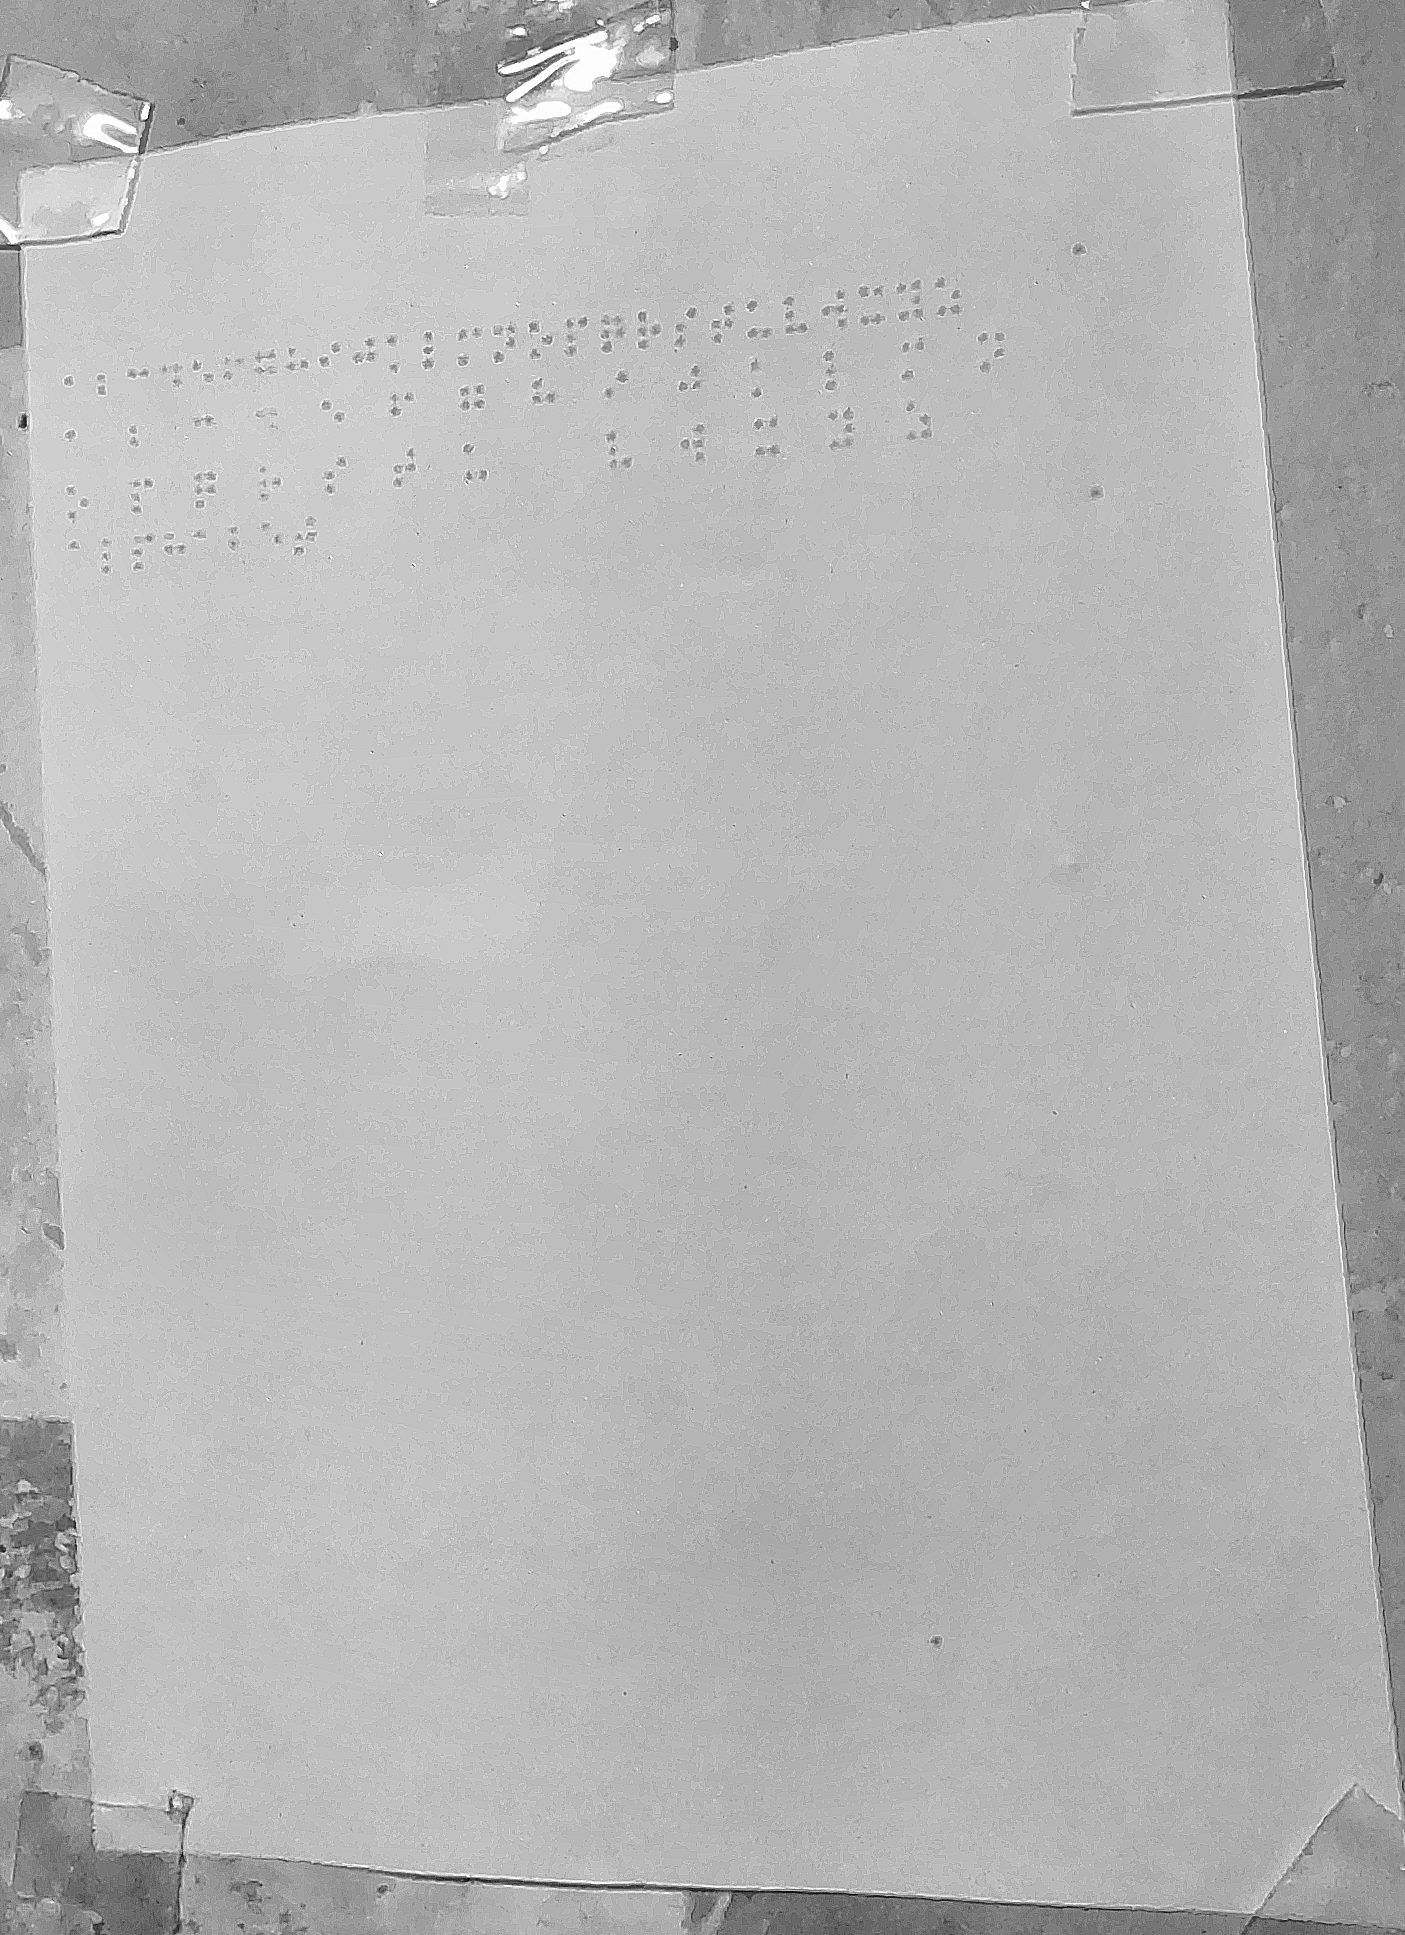
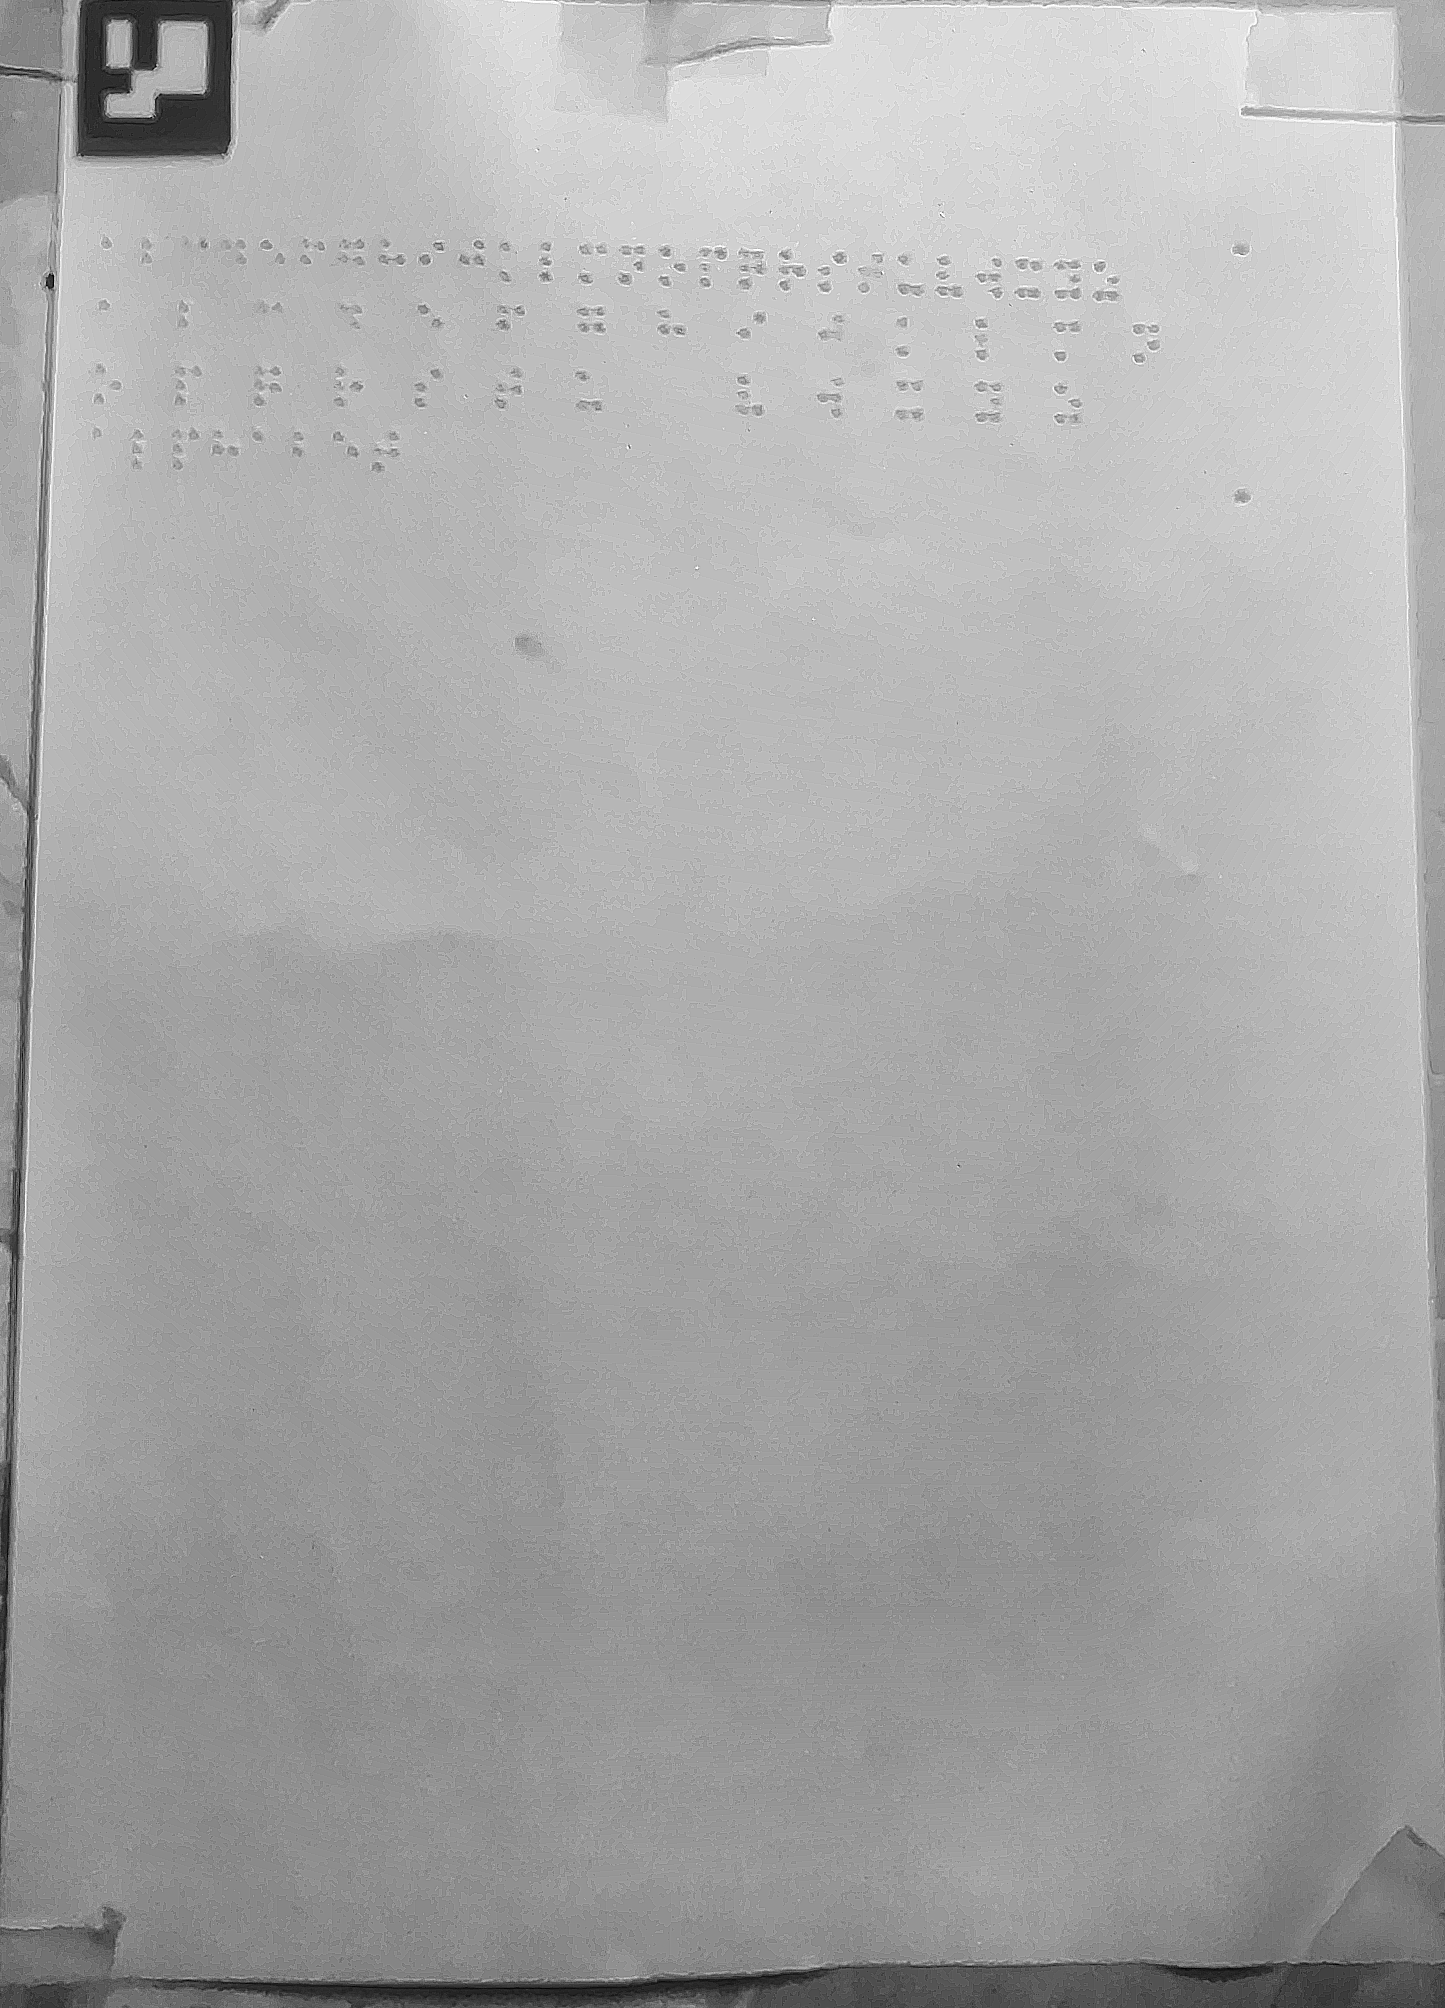
v3 progress 10

diff --git a/hal/hal_camera.py b/hal/hal_camera.py
@@ -32,13 +32,17 @@ class CameraHAL:
         self.preview_config = None
         self.capture_config = None
 
+        # Focus region tracking
+        self.focus_region = None  # Will store (x, y, width, height) normalized coordinates
+
         # Event subscriptions
         self.bus.subscribe("camera_switch_res", self.on_switch_resolution)
         self.bus.subscribe("camera_capture", self.on_capture)
         self.bus.subscribe("camera_toggle_undistort", self.toggle_undistort)
+        self.bus.subscribe("camera_set_focus_region", self.set_focus_region)
 
         self._init_camera()
-
+    
     # -----------------------------
     def _init_camera(self):
         """Initialize PiCamera2 with preview and capture configurations."""
@@ -50,12 +54,30 @@ class CameraHAL:
         )
         self.pi_cam.configure(self.preview_config)
         self.pi_cam.start()
+        
+        # Set initial focus mode to auto
+        try:
+            self.pi_cam.set_controls({"AfMode": controls.AfModeEnum.Auto})
+            print("[CameraHAL] ✅ Started preview with auto-focus")
+        except Exception as e:
+            print(f"[CameraHAL] ⚠ Could not set auto-focus: {e}")
+        
         print(f"[CameraHAL] ✅ Started preview at {self.low_res}")
 
     # -----------------------------
+    @staticmethod
     def scale_calibration(camera_matrix, dist_coeffs, orig_res, new_res):
         """
         Scale the camera matrix to match a new resolution.
+        
+        Args:
+            camera_matrix: Original camera matrix
+            dist_coeffs: Original distortion coefficients
+            orig_res: Original resolution (width, height)
+            new_res: New resolution (width, height)
+            
+        Returns:
+            tuple: (scaled_camera_matrix, dist_coeffs)
         """
         scale_x = new_res[0] / orig_res[0]
         scale_y = new_res[1] / orig_res[1]
@@ -67,7 +89,94 @@ class CameraHAL:
         new_camera_matrix[1, 2] *= scale_y  # cy
 
         return new_camera_matrix, dist_coeffs
-   # -----------------------------
+
+    # -----------------------------
+    def set_focus_region(self, data):
+        """
+        Set camera to focus on a specific region (paper borders).
+        
+        Args:
+            data: Dictionary containing 'paper_borders' as [x1, y1, x2, y2] 
+                  in normalized coordinates (0-1) relative to frame size
+        """
+        try:
+            paper_borders = data.get("paper_borders")
+            if not paper_borders or len(paper_borders) != 4:
+                print("[CameraHAL] ⚠ Invalid paper borders format. Expected [x1, y1, x2, y2]")
+                return
+            
+            x1, y1, x2, y2 = paper_borders
+            
+            # Validate normalized coordinates
+            if not all(0 <= coord <= 1 for coord in [x1, y1, x2, y2]):
+                print("[CameraHAL] ⚠ Paper borders must be in normalized coordinates (0-1)")
+                return
+            
+            # Calculate center and size of the region
+            center_x = (x1 + x2) / 2
+            center_y = (y1 + y2) / 2
+            width = x2 - x1
+            height = y2 - y1
+            
+            # Store focus region for visualization
+            self.focus_region = (x1, y1, width, height)
+            
+            # Convert to pixel coordinates for the current resolution
+            current_width, current_height = self.resolution
+            pixel_center_x = int(center_x * current_width)
+            pixel_center_y = int(center_y * current_height)
+            pixel_width = int(width * current_width)
+            pixel_height = int(height * current_height)
+            
+            print(f"[CameraHAL] 🔍 Setting focus region: center=({center_x:.2f}, {center_y:.2f}), size=({width:.2f}, {height:.2f})")
+            print(f"[CameraHAL] 📏 Pixel coordinates: center=({pixel_center_x}, {pixel_center_y}), size=({pixel_width}, {pixel_height})")
+            
+            # Set focus region using libcamera controls
+            try:
+                # Normalized coordinates for libcamera (0.0-1.0)
+                roi_x = center_x - width/2
+                roi_y = center_y - height/2
+                roi_width = width
+                roi_height = height
+                
+                # Ensure ROI stays within bounds
+                roi_x = max(0.0, min(roi_x, 1.0))
+                roi_y = max(0.0, min(roi_y, 1.0))
+                roi_width = max(0.1, min(roi_width, 1.0 - roi_x))
+                roi_height = max(0.1, min(roi_height, 1.0 - roi_y))
+                
+                controls_dict = {
+                    "AfMode": controls.AfModeEnum.Auto,
+                    "AfMetering": controls.AfMeteringEnum.Windows,
+                    "AfWindows": [(roi_x, roi_y, roi_width, roi_height)]
+                }
+                
+                self.pi_cam.set_controls(controls_dict)
+                print(f"[CameraHAL] ✅ Focus region set: ROI=({roi_x:.2f}, {roi_y:.2f}, {roi_width:.2f}, {roi_height:.2f})")
+                
+            except Exception as e:
+                print(f"[CameraHAL] ⚠ Could not set focus region via controls: {e}")
+                # Fallback: try simple center focus
+                try:
+                    self.pi_cam.set_controls({"AfMode": controls.AfModeEnum.Auto})
+                    print("[CameraHAL] 🔄 Fallback to auto-focus mode")
+                except Exception as fallback_error:
+                    print(f"[CameraHAL] ❌ Fallback auto-focus also failed: {fallback_error}")
+                    
+        except Exception as e:
+            print(f"[CameraHAL] ❌ Error setting focus region: {e}")
+
+    # -----------------------------
+    def reset_focus(self):
+        """Reset focus to the entire frame (auto-focus)."""
+        try:
+            self.pi_cam.set_controls({"AfMode": controls.AfModeEnum.Auto})
+            self.focus_region = None
+            print("[CameraHAL] 🔄 Focus reset to auto (full frame)")
+        except Exception as e:
+            print(f"[CameraHAL] ⚠ Could not reset focus: {e}")
+
+    # -----------------------------
     def get_frame(self):
         """Capture frame from PiCamera2."""
         try:
@@ -79,40 +188,24 @@ class CameraHAL:
 
     # -----------------------------
     def undistort_frame(self, frame, resolution):
+        """Apply undistortion to frame based on current resolution."""
         if not self.undistort_enabled:
             return frame
 
-        # --- Original calibration resolution ---
-        orig_res = (2304, 1296)
-
-        # --- Helper function for scaling calibration ---
-        def scale_calibration(camera_matrix, dist_coeffs, orig_res, new_res):
-            scale_x = new_res[0] / orig_res[0]
-            scale_y = new_res[1] / orig_res[1]
-
-            new_camera_matrix = camera_matrix.copy()
-            new_camera_matrix[0, 0] *= scale_x  # fx
-            new_camera_matrix[1, 1] *= scale_y  # fy
-            new_camera_matrix[0, 2] *= scale_x  # cx
-            new_camera_matrix[1, 2] *= scale_y  # cy
-
-            return new_camera_matrix, dist_coeffs
-
-        # --- Scale according to active resolution ---
-        if resolution == (4608, 2592):
-            camera_matrix_scaled, dist_coeffs_scaled = scale_calibration(
-                self.camera_matrix, self.dist_coeffs, orig_res, (4608, 2592)
+        # Scale calibration for current resolution
+        if resolution == self.high_res:
+            camera_matrix_scaled, dist_coeffs_scaled = self.scale_calibration(
+                self.camera_matrix, self.dist_coeffs, self.orig_size, self.high_res
             )
-        elif resolution == (1536, 864):
-            camera_matrix_scaled, dist_coeffs_scaled = scale_calibration(
-                self.camera_matrix, self.dist_coeffs, orig_res, (1536, 864)
+        elif resolution == self.low_res:
+            camera_matrix_scaled, dist_coeffs_scaled = self.scale_calibration(
+                self.camera_matrix, self.dist_coeffs, self.orig_size, self.low_res
             )
         else:
             camera_matrix_scaled, dist_coeffs_scaled = self.camera_matrix, self.dist_coeffs
 
-        # --- Apply undistortion ---
+        # Apply undistortion
         frame_undistorted = cv2.undistort(frame, camera_matrix_scaled, dist_coeffs_scaled)
-
         return frame_undistorted
 
     # -----------------------------
@@ -123,6 +216,24 @@ class CameraHAL:
             if frame is None:
                 await asyncio.sleep(0.02)
                 continue
+
+            # Draw focus region on preview if set
+            if self.show_preview and self.focus_region is not None:
+                frame_with_focus = frame.copy()
+                h, w = frame_with_focus.shape[:2]
+                x1, y1, width, height = self.focus_region
+                
+                # Convert normalized to pixel coordinates
+                x1_px = int(x1 * w)
+                y1_px = int(y1 * h)
+                x2_px = int((x1 + width) * w)
+                y2_px = int((y1 + height) * h)
+                
+                # Draw rectangle around focus region
+                cv2.rectangle(frame_with_focus, (x1_px, y1_px), (x2_px, y2_px), (0, 255, 0), 2)
+                cv2.putText(frame_with_focus, "Focus Region", (x1_px, y1_px - 10),
+                           cv2.FONT_HERSHEY_SIMPLEX, 0.6, (0, 255, 0), 2)
+                frame = frame_with_focus
 
             # Publish current frame (async)
             asyncio.create_task(
@@ -157,11 +268,24 @@ class CameraHAL:
                         2,
                         cv2.LINE_AA,
                     )
+                    
+                    # Add focus region info
+                    if self.focus_region is not None:
+                        cv2.putText(
+                            overlay,
+                            "Focus: Paper Region",
+                            (15, 80),
+                            cv2.FONT_HERSHEY_SIMPLEX,
+                            0.7,
+                            (0, 255, 0),
+                            2,
+                            cv2.LINE_AA,
+                        )
+                    
                     preview_resized = cv2.resize(overlay, (640, 360))
                     cv2.imshow("Camera Preview", preview_resized)
                     cv2.waitKey(1)
 
-            time.sleep(0.005)
             await asyncio.sleep(0.01)
 
     # -----------------------------
@@ -186,29 +310,17 @@ class CameraHAL:
 
     def apply_braille_filters(self, frame):
         """Apply Braille-optimized filters matching the filter configuration."""
-        # --- Convert to grayscale (always done for processing) ---
         gray = cv2.cvtColor(frame, cv2.COLOR_BGR2GRAY)
         
-        # --- CLAHE (ON in your config) ---
-        # Using same parameters as your first code
         clahe = cv2.createCLAHE(clipLimit=2.0, tileGridSize=(8, 8))
         enhanced = clahe.apply(gray)
         
-        # --- Sharpen (ON in your config with amount 37) ---
-        # Convert trackbar value 37 to actual sharpen amount (37/10 = 3.7)
         sharpen_amount = 3.7  # This matches your SharpenAmt:37
         kernel = np.array([[-1, -1, -1],
                            [-1, 9, -1],
                            [-1, -1, -1]])
         sharpened = cv2.filter2D(enhanced, -1, kernel)
-        
-        # Alternative sharpen method (more similar to your first code):
-        # blurred = cv2.GaussianBlur(enhanced, (3, 3), 0)
-        # sharpened = cv2.addWeighted(enhanced, 1.0 + sharpen_amount, blurred, -sharpen_amount, 0)
-        
-        # --- Convert back to BGR for consistency across modules ---
         return sharpened
-
 
     # -----------------------------
     async def on_capture(self, data):
@@ -241,7 +353,6 @@ class CameraHAL:
 
             raw_path = os.path.join(save_dir, f"capture_raw_{timestamp}.png")
             filtered_path = os.path.join(save_dir, f"capture_filtered_{timestamp}.png")
-
 
             cv2.imwrite(raw_path, raw_undistorted)
             cv2.imwrite(filtered_path, filtered)
@@ -276,4 +387,3 @@ class CameraHAL:
         self.pi_cam.stop()
         cv2.destroyAllWindows()
         print("[CameraHAL] 📴 Camera released.")
-

diff --git a/hal/hal_buttons.py b/hal/hal_buttons.py
@@ -32,13 +32,13 @@ class ButtonHAL:
         print("[ButtonHAL] Initializing buttons...")
 
         # Define buttons (on real Pi these are GPIO pins)
-        self.button1 = Button(17)
-        self.button2 = Button(27)
-        self.button3 = Button(22)
-        self.button4 = Button(23)
-        self.volUp   = Button(5)
-        self.volDown = Button(6)
-        self.mainBtn = Button(24)
+        self.button1 = Button(27)
+        self.button2 = Button(22)
+        self.button3 = Button(23)
+        self.button4 = Button(24)
+        self.volUp   = Button(26)
+        self.volDown = Button(16)
+        self.mainBtn = Button(25)
 
         self.buttons = {
             17: self.button1,

diff --git a/core/modes/education_mode.py b/core/modes/education_mode.py
@@ -68,11 +68,9 @@ class EducationMode:
                 self.x1, self.y1, self.x2, self.y2 = [int(coord) for coord in box]
                 break  # Use first detection only
             break
-        
         if None in [self.x1, self.y1, self.x2, self.y2]:
             print("[EducationMode] No paper detected!")
             return
-        
         print(f"[EducationMode] Paper boundaries: ({self.x1}, {self.y1}) to ({self.x2}, {self.y2})")
         
         # Step 2: Crop the paper from filtered frame

diff --git a/core/qr_handler.py b/core/qr_handler.py
@@ -17,6 +17,10 @@ class QRHandler:
             return
 
         text, points, _ = self.detector.detectAndDecode(frame)
+        if points is not None and len(points) > 0:
+            hull = cv2.convexHull(points)
+        else:
+            hull = []
         if not text:
             return
 
